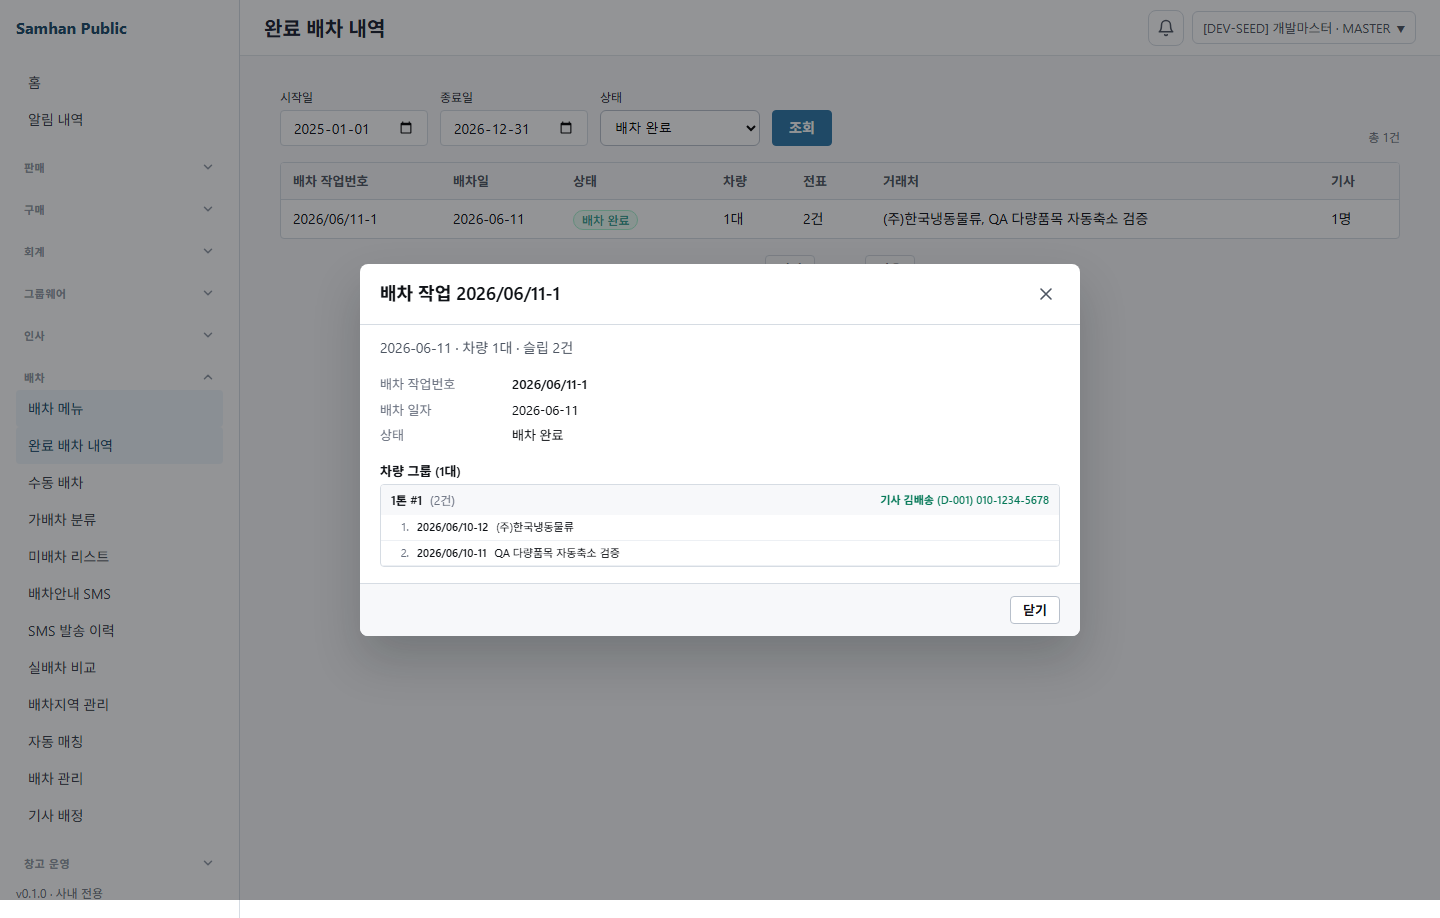
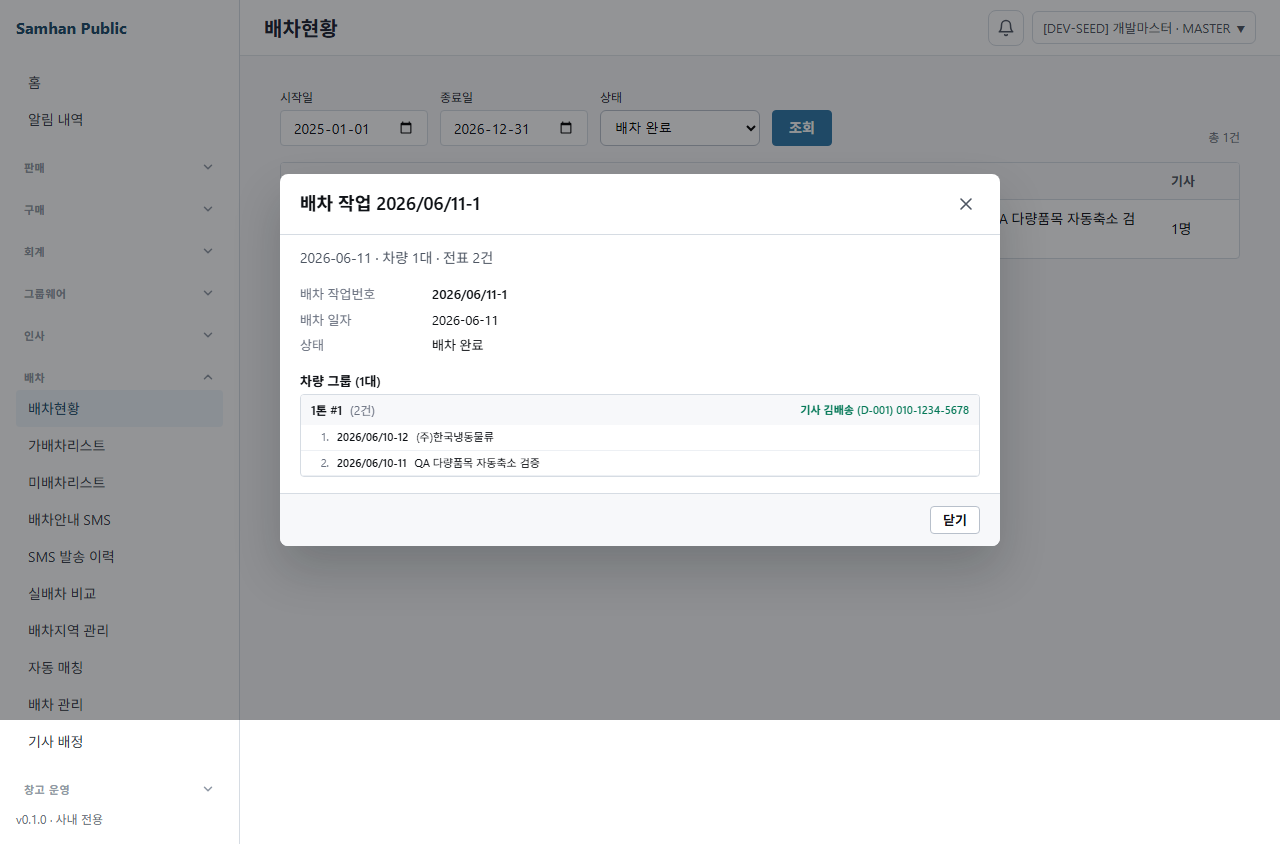
docs+qa: 협업 플랫폼 아키텍처 spec(§7 승격) + 배차 에픽 보강(차량 캡슐·톤수 기본값) + 배차현황 실 QA 재캡처
- collab-document-platform-spec: 전역 협업 문서 플랫폼(코멘트·수정제안·revision/회귀·SSE) 공유 서브시스템 아키텍처. 레퍼런스=배차, C0~C4 단계 롤아웃
- dispatch-board-enhancement-spec: 차량 캡슐 상세(클릭-펼침 거부·차량형상·차종 즉시·상태색·SMS·타사수동), 차종별 톤수 매핑 PM 야간 기본값
- QA: 배차현황 실 게이트웨이 재캡처(메뉴 IA 반영 — 제목 배차현황·전표 N건·DISPATCHED 단일)

연관 Issue: #463

diff --git a/docs/superpowers/specs/2026-06-11-collab-document-platform-spec.md b/docs/superpowers/specs/2026-06-11-collab-document-platform-spec.md
@@ -1,0 +1,70 @@
+# SPEC — 전역 협업 문서 플랫폼 (실시간 동시조회 · 코멘트 · 수정제안 · 수정이력/회귀)
+
+> 2026-06-11 개발책임자 야간 지시: 배차 슬라이스와 **함께** "전체 전표 및 화면에 대한 협업 플랫폼 기술 슬라이스"까지 적용. 배차 보드 에픽 spec(`2026-06-11-dispatch-board-enhancement-spec.md`) §7 을 **독립 아키텍처 spec 으로 승격**. Google Docs 협업 3요소(실시간 동시편집 · 코멘트 · 수정제안 모드)를 **모든 전표/문서 단위**(입출고전표 · 회계전표 · 배차 · 주문 · 견적 …)가 재사용하는 공통 서브시스템으로 설계.
+
+## 0. 범위·전략
+- **범위**: 작성 완료된 모든 전표/문서에 (a) 실시간 동시조회 (b) 코멘트 (c) 수정제안(suggestion) 모드 (d) 수정 카운트·수정자·로그·회귀(revert) 적용.
+- **전략(빅뱅 금지)**: ① 공유 서브시스템 설계(본 spec) → ② **레퍼런스 구현 1종 = 배차(dispatch)** → ③ 단계 롤아웃: 입출고전표 → 회계전표 → 주문 → 견적.
+- **기존 자산 승격**: slip 도메인 revision/audit-log/restore(입출고전표 회귀) + SSE publish(`*:changed` afterCommit) + (있으면)코멘트 인프라 → 공통 추상으로.
+
+## 1. 도메인 모델 (공유 `collab` 추상)
+문서 식별 = `(documentType, documentId)`. `documentType` enum: `SLIP_OUTBOUND` · `SLIP_INBOUND` · `ACCOUNTING_VOUCHER` · `DISPATCH_TASK` · `PARTNER_ORDER` · `ESTIMATE` …(확장).
+
+### 1-1. 코멘트 — `CollabComment`
+- 필드: id, documentType, documentId, anchor(nullable — 문서 전체/특정 필드/특정 행), authorUserId, authorName(표시), body, parentId(스레드), status(OPEN/RESOLVED), BaseEntity 7 audit + soft delete.
+- 행위: 작성 · 답글 · 해결(resolve) · 삭제(soft).
+
+### 1-2. 수정제안 — `CollabSuggestion`
+- **수정 = 기본적으로 "제안"** (즉시 확정 아님). 제안 → 수락/거절.
+- 필드: id, documentType, documentId, proposerUserId, proposerName, **changeSet**(JSON: 필드 경로→{before, after}), reason(nullable), status(PROPOSED/ACCEPTED/REJECTED/WITHDRAWN), decidedByUserId, decidedAt, BaseEntity.
+- 행위: 제안 · 수락(→ 도메인에 changeSet 적용 + revision 생성) · 거절(사유) · 철회.
+- **권한**: 제안 = 편집 권한자. 수락/거절 = 문서 소유 도메인의 승인 권한자(배차=배차담당자, 회계=회계 등).
+
+### 1-3. 수정이력/회귀 — `CollabRevision`
+- 필드: id, documentType, documentId, revisionNo(문서별 1씩 증가 = **수정 카운트**), authorUserId, authorName, diff(JSON before/after), sourceSuggestionId(nullable — 제안 유래), createdAt(불변).
+- 행위: 적용 시 revision append(카운트 증가) · **revert(특정 revision 으로 회귀 = 역 changeSet 적용 + 새 revision 기록)**.
+- 입출고전표 기존 revision/restore 패턴을 본 추상으로 일반화(중복 제거).
+
+### 1-4. 실시간 — `CollabRealtime`(SSE)
+- 채널 = `collab:{documentType}:{documentId}`. afterCommit publish 이벤트: `commented` · `suggestion.proposed/accepted/rejected` · `revised` · `reverted` · `presence`.
+- **presence**(동시조회자): 페이지 진입 시 heartbeat, 이탈 시 제거. 같은 문서를 보는 사용자 목록 표시.
+- 기존 SSE 인프라(`product:catalog:changed` 등) 재사용 — afterCommit publisher + FE EventSource 구독.
+
+## 2. 모듈 구조
+### BE
+- **`shared/collab-core`**(신규 공유 모듈): 위 4 엔티티 + 리포지토리 + 서비스(CommentService/SuggestionService/RevisionService/RealtimePublisher) + `DocumentCollaborationPort`(도메인 어댑터 인터페이스: `applyChangeSet(documentId, changeSet)` · `loadSnapshot(documentId)` · `canPropose/canDecide(userId)`).
+- **per-service 통합**: 각 도메인 서비스(slip/accounting/dispatch/…)가 `DocumentCollaborationPort` 구현(자기 엔티티에 changeSet 적용·스냅샷·권한) + collab-core 빈 등록. **opt-in**(@ConditionalOnProperty 또는 명시 등록 — [[preauth-migration-lessons]] 무관 서비스 회귀 방지).
+- **API**(공통 컨트롤러, gateway no-strip 또는 도메인별 prefix): `/{domain}/{docId}/comments` · `/suggestions`(+accept/reject) · `/revisions`(+revert) · `/stream`(SSE).
+- **DB**: collab 전용 테이블(comment/suggestion/revision) — 서비스별 DB-per-service 원칙 상 **각 서비스 스키마에 collab 테이블 생성**(공유 라이브러리가 Flyway 마이그레이션 제공) 또는 collab 전용 서비스. → **결정 후보 A**(아래 미결).
+
+### FE (`@samhan/design-system` 또는 `clients/desktop` 공유 렌더 모듈)
+- 공통 컴포넌트: `CommentThread` · `SuggestionOverlay`(제안 diff 표시 + 수락/거절) · `RevisionHistory`(카운트·수정자·revert) · `PresenceBar`(동시조회자) · `useCollabRealtime(documentType, documentId)` 훅(EventSource).
+- 각 문서 화면(전표 상세 모달 등)이 이 컴포넌트를 **문서 단위로** 마운트.
+
+## 3. 수정제안 UX (Google Docs 모델)
+- 편집 모드 진입 → 필드 수정 시 **즉시 확정 아님**: changeSet 누적 → "제안" 제출 → 제안 목록에 PROPOSED.
+- 소유 도메인 승인자: 제안 diff(before→after) 확인 → 수락(적용+revision) / 거절(사유).
+- 코멘트로 제안·필드 논의. 실시간으로 다른 조회자에게 제안/코멘트/적용이 반영.
+
+## 4. 레퍼런스 구현 = 배차(dispatch)
+- 배차 에픽 E3(수정이력/카운트/회귀) · E5(실시간 협업) · E4(취소 연동)를 **본 collab-core 위에 구현**(중복 인프라 금지).
+- DispatchTask = `documentType=DISPATCH_TASK`. 차량그룹/전표/기사 구성 변경 = changeSet. 전송완료 후 수정 = 제안 → 수락 시 arologis 재발송.
+
+## 5. 단계 롤아웃 슬라이스
+| # | 슬라이스 | 핵심 |
+|---|---|---|
+| C0 | **collab-core 설계+골격** | 4 엔티티·포트·서비스·SSE·공유 FE 컴포넌트(미배선). |
+| C1 | **레퍼런스=배차** | DispatchTask 통합(E3/E4/E5). 실시간·제안·코멘트·회귀 실동작. |
+| C2 | **입출고전표** | slip revision/restore → collab-core 흡수 + 코멘트·제안·실시간. |
+| C3 | **회계전표** | accounting voucher 통합. |
+| C4 | **주문/견적** | partner-order · estimate 통합. |
+
+## 6. 미결(개발책임자 아침 검토 🚩 — 야간엔 PM 기본값으로 진행)
+1. **collab 테이블 배치**: (A) 각 서비스 DB 스키마에 collab 테이블(라이브러리 Flyway) — DB-per-service 유지, 조인 가능. (B) collab 전용 서비스 — 격리되나 cross-service 조회 복잡. → **PM 야간 기본값 = (A)**(기존 DB-per-service·조인 용이·점진 통합 친화). 아침 확정.
+2. **changeSet 표현**: JSON path→{before,after} (PM 기본값) vs 도메인 전용 DTO. → 기본값 = 범용 JSON(어댑터가 해석).
+3. **권한 모델**: 제안=편집권한 / 수락=도메인 승인권한 매핑(배차=dispatch.board UPDATE, 회계=accounting.* 등) — 도메인별 확정 필요. 야간엔 배차 기준으로 진행.
+4. **presence 정밀도**: 단순 "조회 중 사용자 목록"(야간 기본) vs 커서/필드 레벨(후속).
+
+---
+
+> 본 spec = §7 승격본. 배차 에픽 spec 과 상호참조. 레퍼런스(C1=배차) 후 C2~C4 순차. 야간 자율: C0 설계골격 → C1 배차 레퍼런스 우선, 이후 단계 롤아웃. 모든 단계 [[codex-implements-claude-reviews]]·[[no-fake-data-ever]]·[[qa-docker-real-test]]·다모델 리뷰 0-error/0-skip 후 머지.

diff --git a/docs/superpowers/specs/2026-06-11-dispatch-board-enhancement-spec.md b/docs/superpowers/specs/2026-06-11-dispatch-board-enhancement-spec.md
@@ -87,7 +87,11 @@
 | — | **#463 완료배차 내역 뷰** | 코드 검증완료(CI/IT/mock green) — E0(envelope) 위에서 실 동작. 별도 머지 또는 E0 동반. |
 
 ## 미결(개발책임자 확정 후보)
-1. 차종별 유효 톤수 매핑(예: 오토바이=톤수 무관, 카고=1~25톤?) — 12×10 전조합 vs 차종별 부분집합.
+1. 차종별 유효 톤수 매핑 — **PM 자율 기본값 적용(2026-06-11 야간, 아침 검토 플래그 🚩)**:
+   - **톤수 미적용(소형)**: 오토바이 · 승용차 · 다마스 · 라보 → 톤수 드롭박스 비노출(null 허용).
+   - **1톤~25톤 전체**: 카고 · 윙바디 · 탑차 · 리프트 · 냉장냉동탑 · 무진동 · 축차 · 추레라 → 10종 톤수 전체.
+   - **기본값**: 차종=카고, 톤수=1톤.
+   - 구현은 **config 맵(차종→유효 톤수 목록)** 으로 분리해 개발책임자가 부분집합 손쉽게 조정 가능하게.
 2. E2 "미배차 리스트"와 "가배차 리스트"의 정확한 화면 정의(현 `/dispatch-board` undispatched 팔레트 vs `/arologis/pre-classify` 가배차 분류 — 양쪽 [완료]).
 3. 슬라이스 순서/우선순위 + #463 머지 시점(E0 동반 vs 선행).
 4. "아로로지스로 전송/연동"의 실 구현 범위(현 dispatch endpoint가 arologis-service 호출 — 실 vendor 연동 vs 내부 arologis-service 시뮬).
